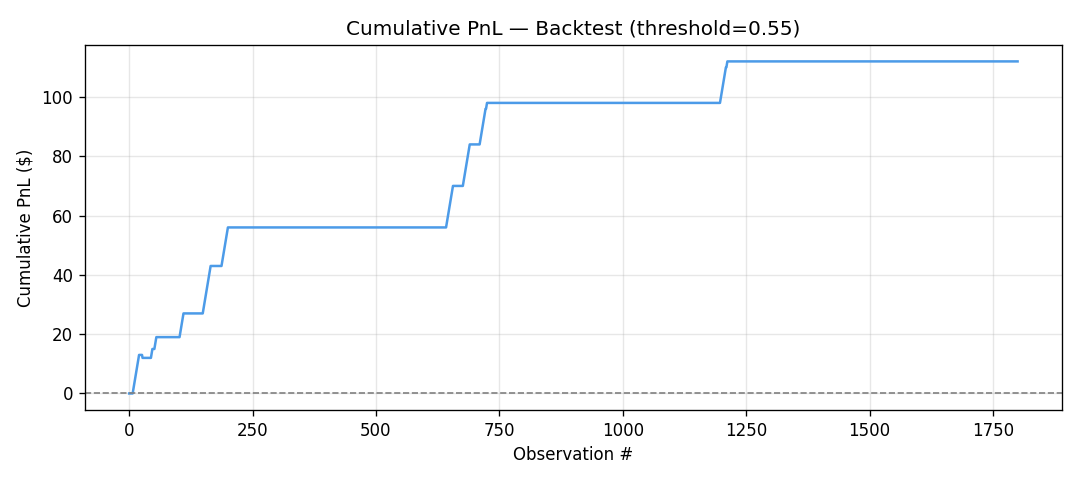
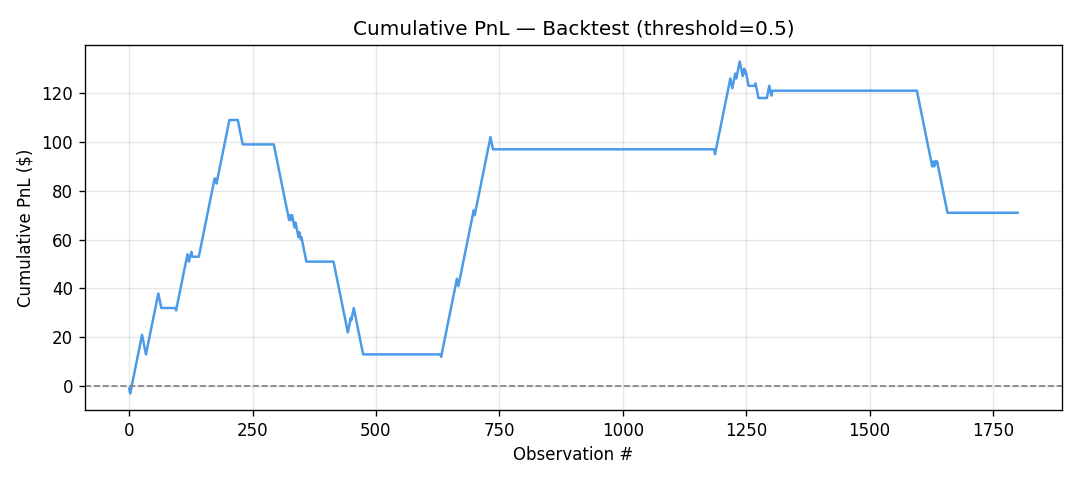
lowered backtest threshold again

diff --git a/src/engine.py b/src/engine.py
@@ -159,7 +159,7 @@ def train_pipeline(source):
         X_test_s, y_test, baseline_results)
 
     # 17. Backtesting simulation
-    backtest(df_test, ens_probs, threshold=0.55)
+    backtest(df_test, ens_probs, threshold=0.5)
 
     # 18. Ablation study
     ablation_study(df_train, df_val, feature_cols)
